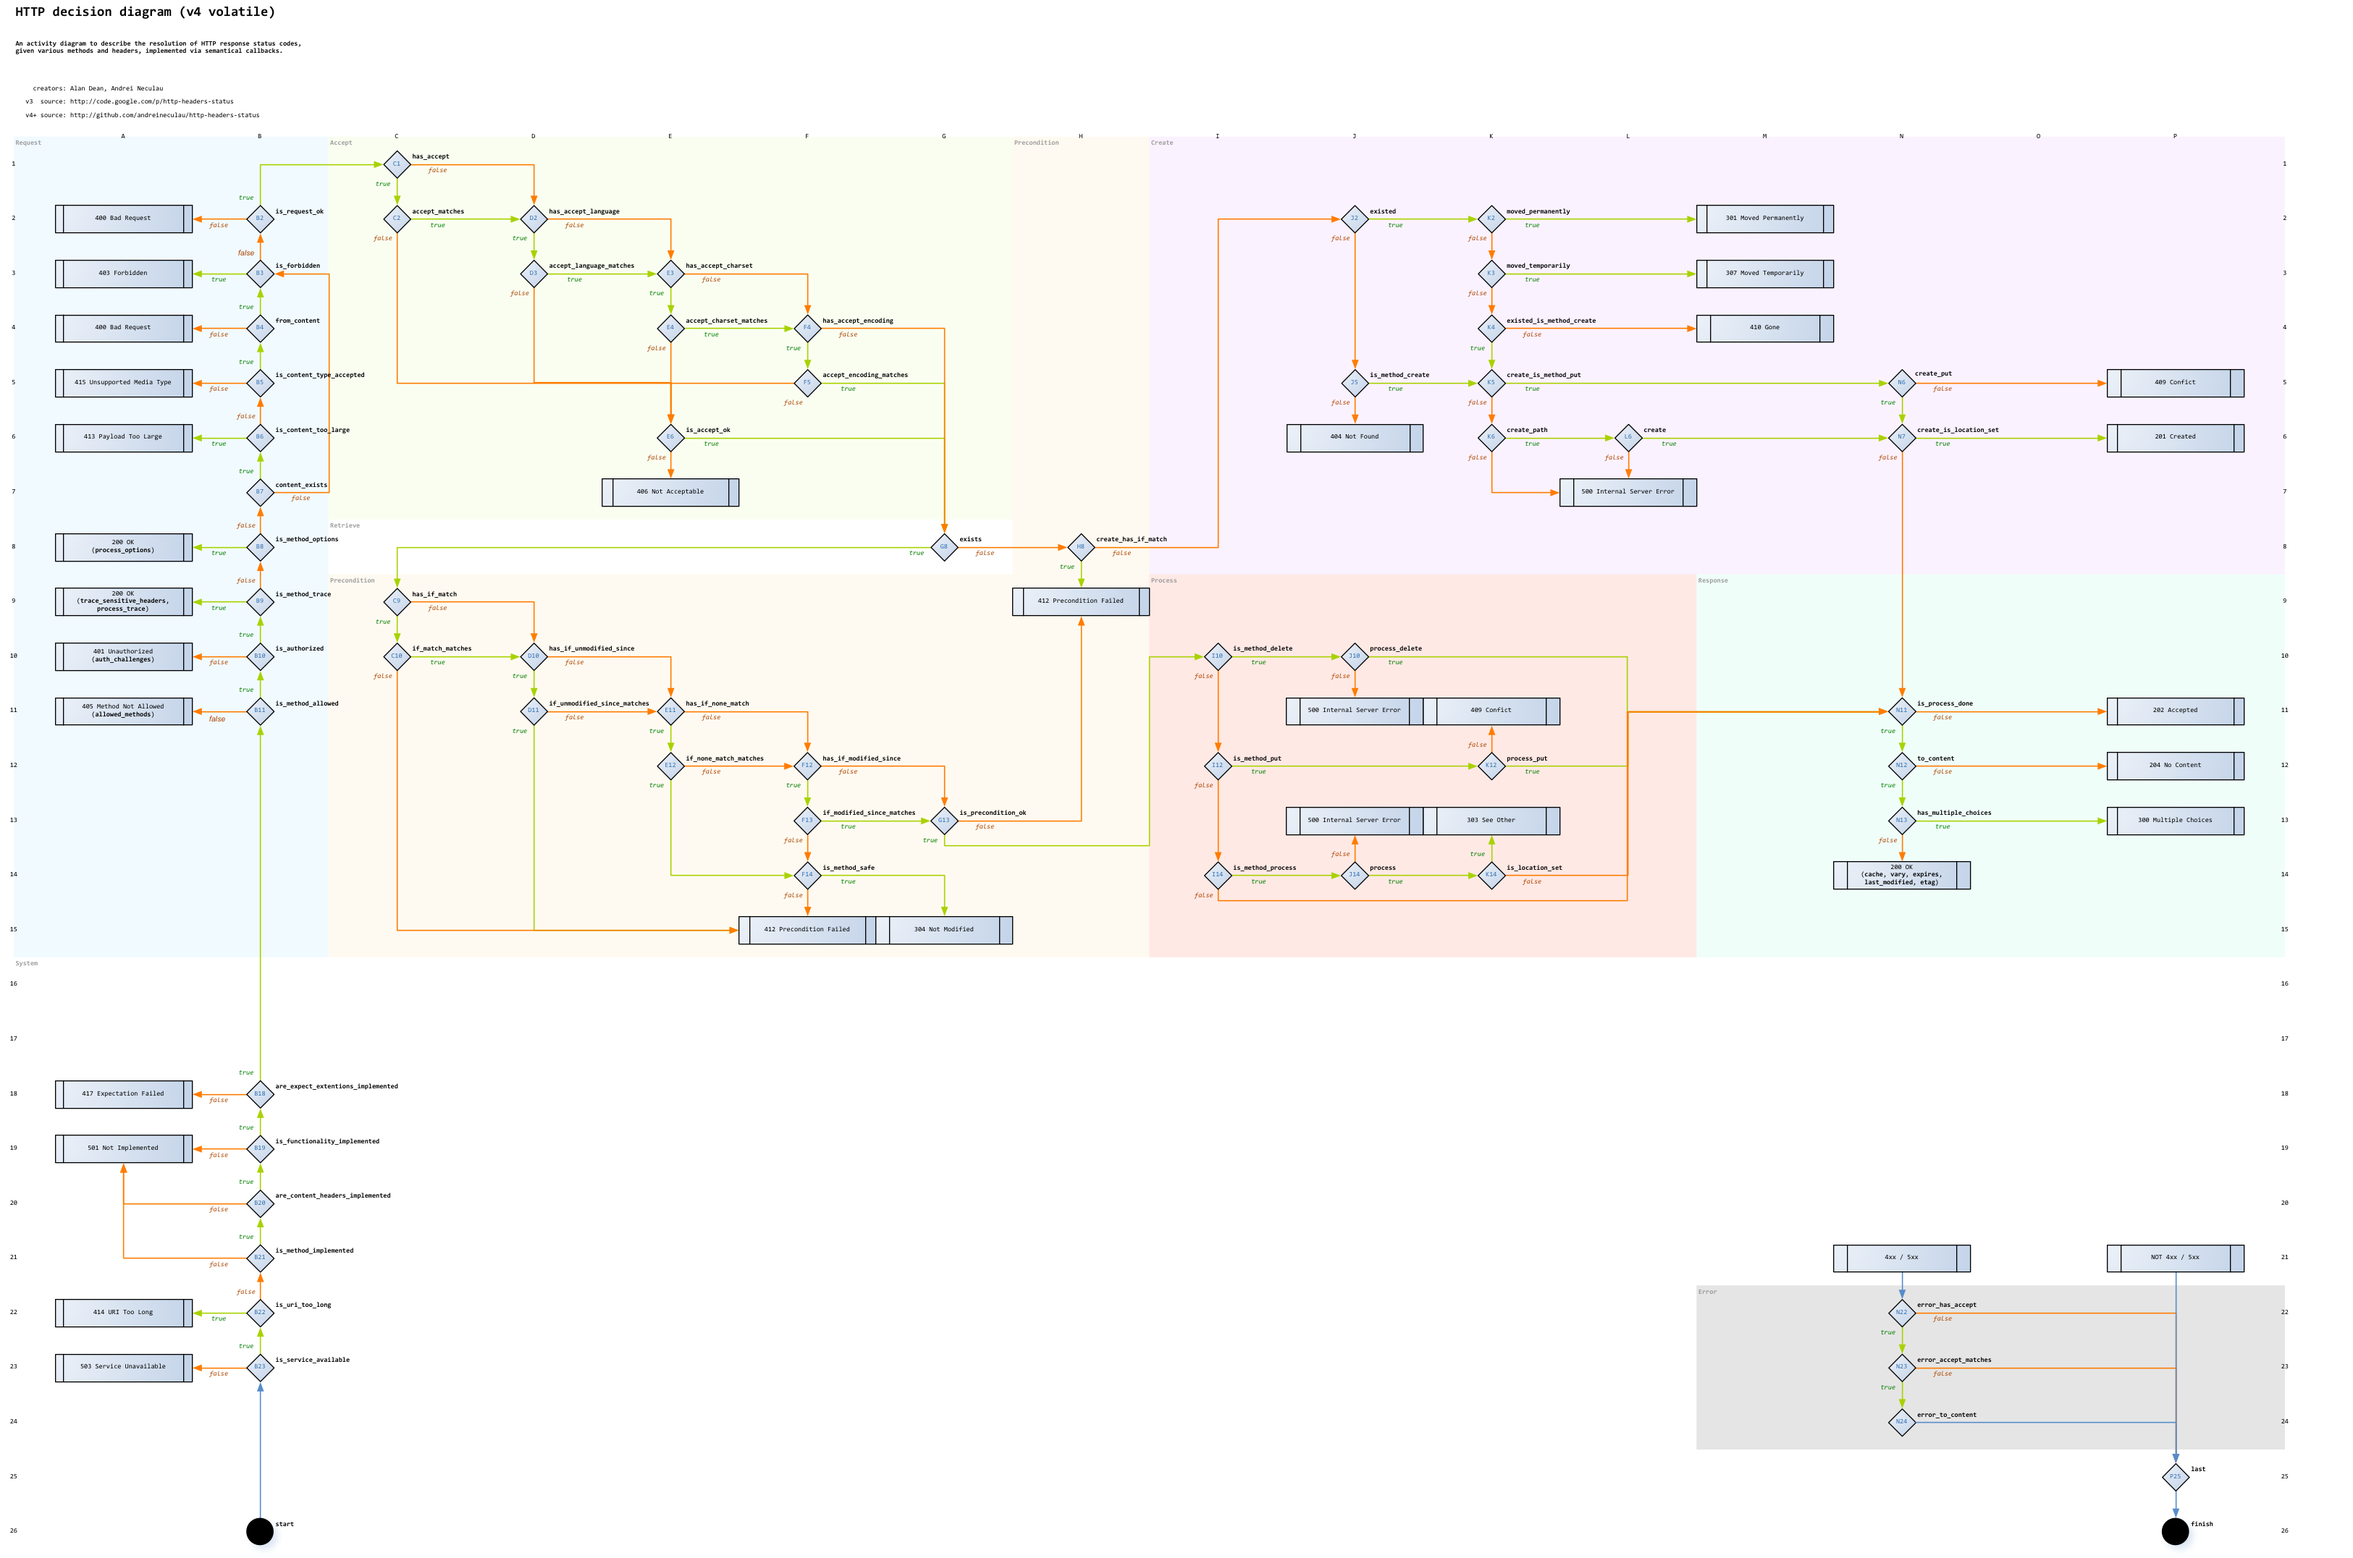
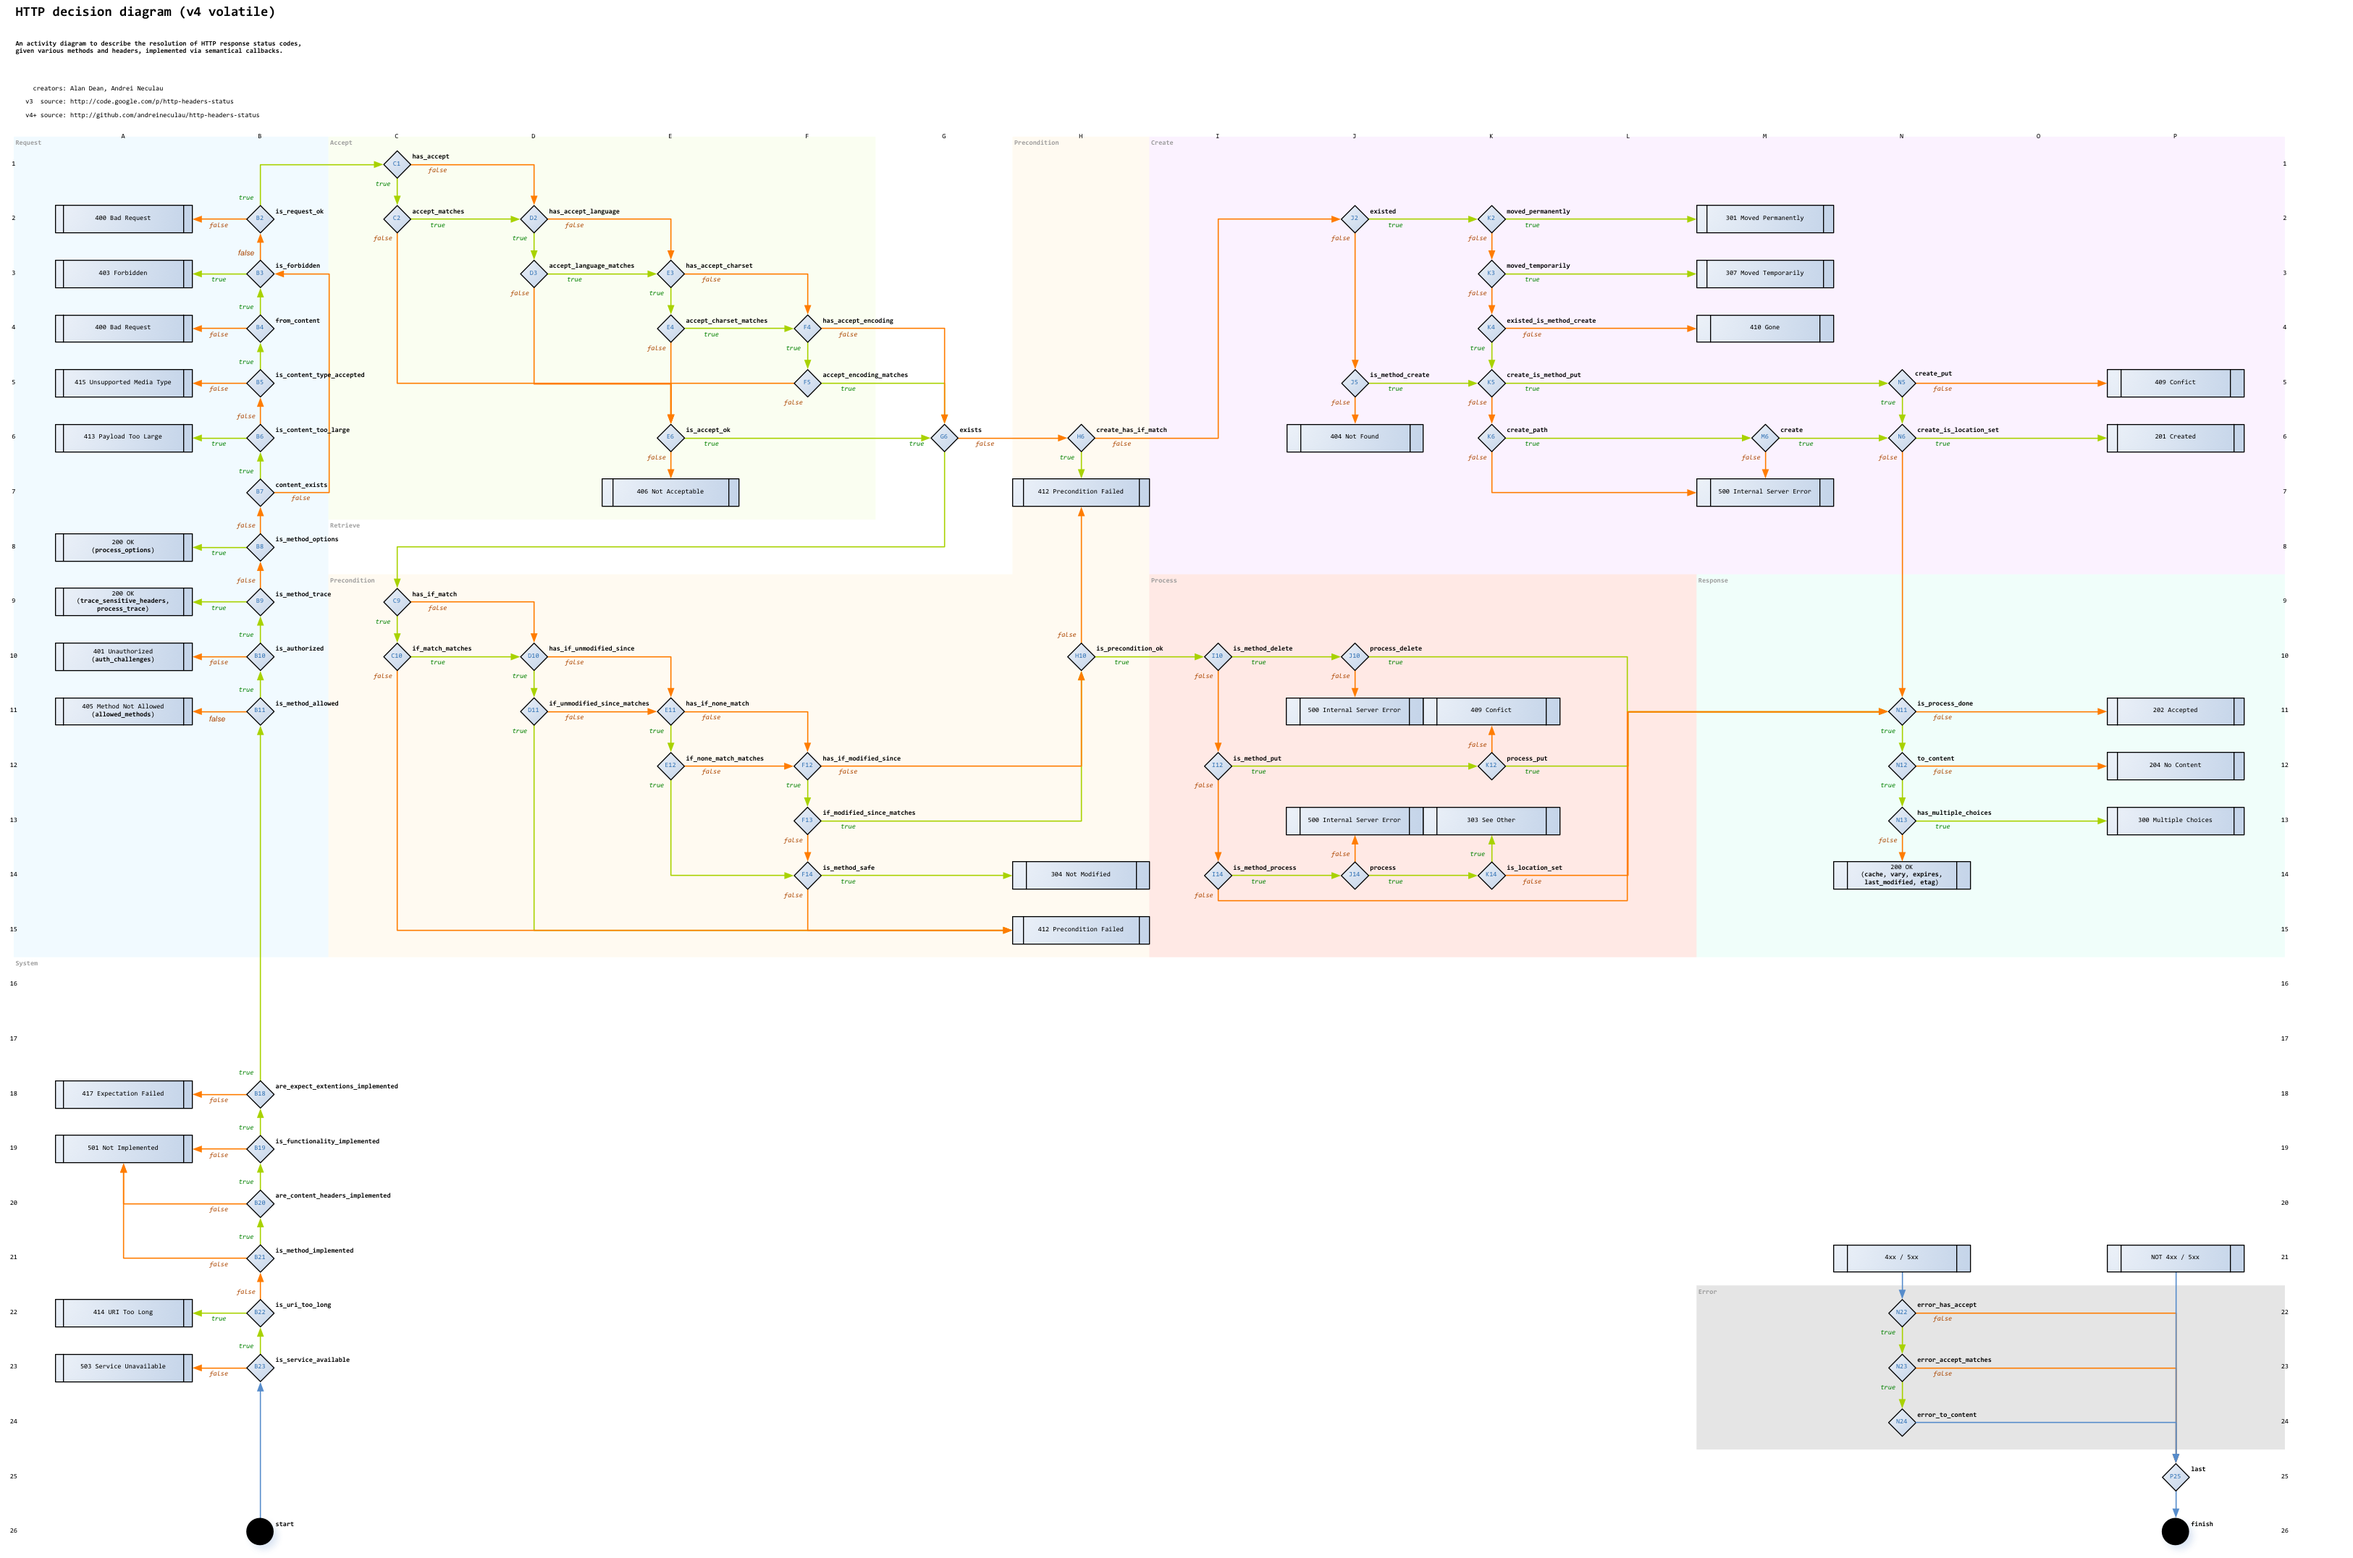
better positioning

diff --git a/v4/README_request.md b/v4/README_request.md
@@ -17,19 +17,20 @@ This block is in charge of request-level checks.
 
  | callback | output | default
 :-- | ---: | :--- | :---
-B11 | [`method :var`](#method-var) | *Method* | `Operation.method`
+B12 | [`method :var`](#method-var) | *Method* | `Operation.method`
  | [`allowed_methods :var`](#allowed_methods-var) | [ *Method* ] | `implemented_methods :var`
  | [`is_method_allowed : in`](#is_method_allowed--in) | T / F |
  | [`allow_header : in`](#allow_header--in) | *AllowHeader* |
-B10 | [`is_authorized :bin`](#is_authorized-bin) | T / F | TRUE
+B11 | [`is_authorized :bin`](#is_authorized-bin) | T / F | TRUE
  | [`auth_challenges :var`](#auth_challenges-var) | [ *AuthChallenge* ] | [ ]
-B9 | [`method :var`](#method-var) | *Method* | `Operation.method`
+B10 | [`method :var`](#method-var) | *Method* | `Operation.method`
  | [`is_method_trace : in`](#is_method_trace--in) | T / F |
  | [`trace_sensitive_headers :var`](#trace_sensitive_headers-var) | [ *HeaderName* ] | [ Authentication<br>, Cookies<br>]
  | [`process_trace : in`](#process_trace--in) | |
-B8 | [`method :var`](#method-var) | *Method* | `Operation.method`
+B9 | [`method :var`](#method-var) | *Method* | `Operation.method`
  | [`is_method_options : in`](#is_method_options--in) | T / F |
  | [`process_options : in`](#process_options--in) | |
+B8 | [`expects_continue : in`](#expects_continue--in) | T / F |
 B7 | [`content_exists : in`](#content_exists--in) | T / F |
 B6 | [`is_content_too_large :bin`](#is_content_too_large-bin) | T / F | TRUE
 B5 | [`post_content_types_accepted :var`](#content_types_accepted-var) | { *CT*<br>: *Handler* } | { }
@@ -125,6 +126,10 @@ Reference: [HTTPbis](http://tools.ietf.org/html/draft-ietf-httpbis-p2-semantics-
 
 > [...]
 -->
+
+### `expects_continue : in`
+
+FIXME
 
 ### `content_exists : in`
 

diff --git a/v4/README_precondition.md b/v4/README_precondition.md
@@ -17,7 +17,7 @@ This block is in charge of precondition checks.
 
  | callback | output | default
 :-- | ---: | :--- | :---
-H7 | [`has_if_match : in`](#has_if_match--in) | T / F |
+H6 | [`has_if_match : in`](#has_if_match--in) | T / F |
  | [`create_has_if_match : in`](#create_has_if_match--in) | T / F |
 C9 | [`has_if_match : in`](#has_if_match--in) | T / F |
 C10 | [`etag :var`](#etag-var) | *ETag* |
@@ -34,6 +34,6 @@ F13 | [`last_modified :var`](#last_modified-var) | *Date* | Now
 F14 | [`method :var`](#method-var) | *Method* | `Operation.method`
  | [`safe_methods :var`](#safe_methods-var) | [ *Method* ] | [ HEAD<br>, GET<br> OPTIONS<br>, TRACE<br>]
  | [`is_method_safe : in`](#is_method_safe--in) | T / F |
-G13 | [`is_precondition_ok :bin`](#is_precondition_ok-bin) | T / F | TRUE
+H10 | [`is_precondition_ok :bin`](#is_precondition_ok-bin) | T / F | TRUE
 
 > FIXME Explanations needed

diff --git a/v4/README_create.md b/v4/README_create.md
@@ -28,11 +28,11 @@ J5 | [`method :var`](#method-var) | *Method* | `Operation.method`
 K5 | [`method :var`](#method-var) | *Method* | `Operation.method`
  | [`is_method_put : in`](#is_method_put--in) | T / F |
  | [`create_is_method_put : in`](#create_is_method_put--in) | T / F | `is_method_put : in`
-N6 | [`create_put :bin`](#create_put-bin) | T / F | `process_put`
+N5 | [`create_put :bin`](#create_put-bin) | T / F | `process_put`
 K6 | [`path :var`](#path-var) | *String* |
  | [`create_path : in`](#create_path--in) | T / F |
-L6 | [`create :bin`](#create-bin) | T / F | FALSE
-N7 | [`is_location_set : in`](#is_location_set--in) | T / F |
+M6 | [`create :bin`](#create-bin) | T / F | FALSE
+N6 | [`is_location_set : in`](#is_location_set--in) | T / F |
  | [`create_is_location_set : in`](#create_is_location_set--in) | T / F | `is_location_set : in`
 
 > FIXME Explanations needed

diff --git a/v4/README_retrieve.md b/v4/README_retrieve.md
@@ -17,6 +17,6 @@ This block is in charge of retrieving the resource.
 
  | callback | output | default
 :-- | ---: | :--- | :---
-G7 | [`exists :bin`](#exists-bin) | T / F | TRUE
+G6 | [`exists :bin`](#exists-bin) | T / F | TRUE
 
 > FIXME Explanations needed
